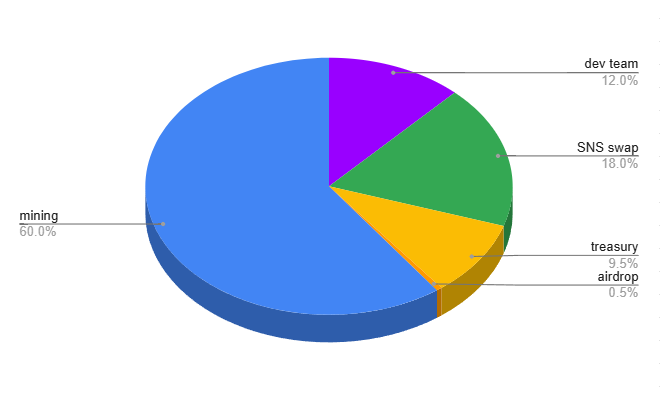
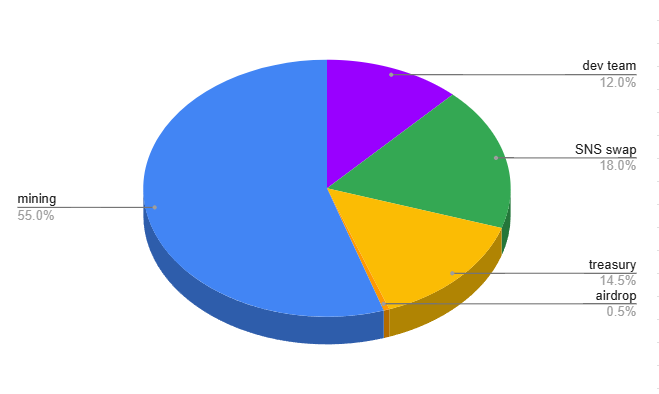
GITBOOK-27: No subject

diff --git a/doc/tokenomics.md b/doc/tokenomics.md
@@ -22,7 +22,7 @@ Dsonance uses each DAO's native token to facilitate the redirection of empirical
 
 The DSN token serves as a utility and governance token for the Dsonance platform:
 
-* **Rewards** – 60% of the token is distributed to active participants.
+* **Rewards** – 55% of the token is distributed to active participants.
 * **Burn Mechanism** – Required for certain platform actions, such as opening new communities or boosting vote rewards.
 * **Collateral** – Used to borrow DAO's coins.
 * **Governance** – Locked in neurons, enabling participation in decisions shaping the future of Dsonance.
@@ -54,10 +54,10 @@ The total supply of DSN will be **1 billion tokens** distributed as follows:
   Reserved as a **reward and incentive for the development team** for their contributions to the project.
 * **180 million DSN (18%) – SNS Decentralization Swap**\
   Allocated for the SNS swap, ensuring broad community ownership and decentralized governance.
-* **95 million DSN (9.5%) – Treasury**\
+* **145 million DSN (14.5%) – Treasury**\
   Held in reserve for future initiatives, partnerships, ecosystem grants, and unforeseen needs.
 * **5 million DSN (0.5%) – Airdrop**\
   A small portion dedicated to initial distribution, rewarding early adopters and fostering community engagement while minimizing the risk of excessive sell pressure.
-* **600 million DSN (60%) – Mining**\
+* **550 million DSN (55%) – Mining**\
   Gradually distributed to users over time as incentives for opening votes and voting, following an **exponential halving model every four years**, ensuring long-term engagement and sustainable growth.
 
